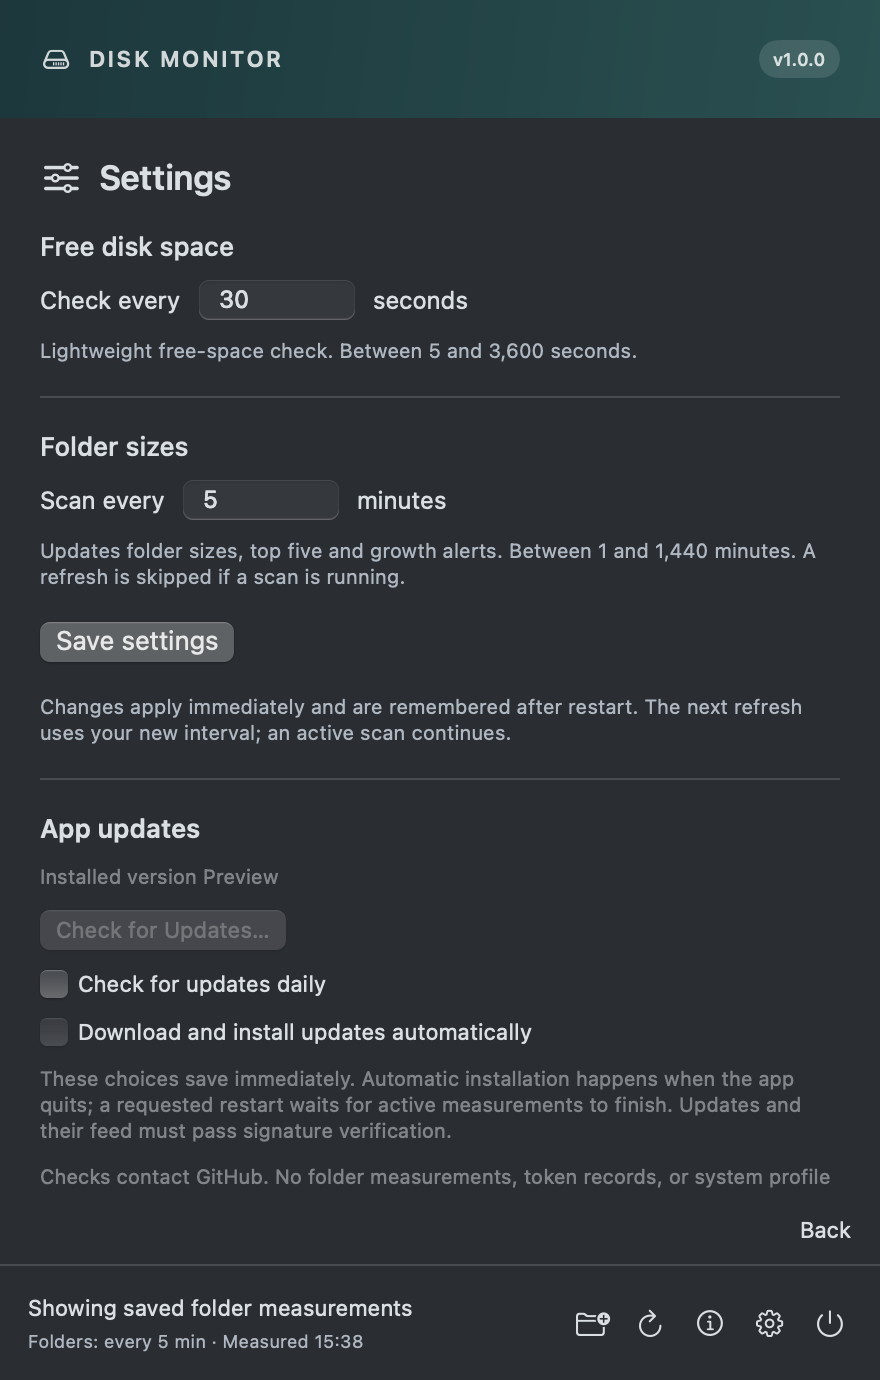
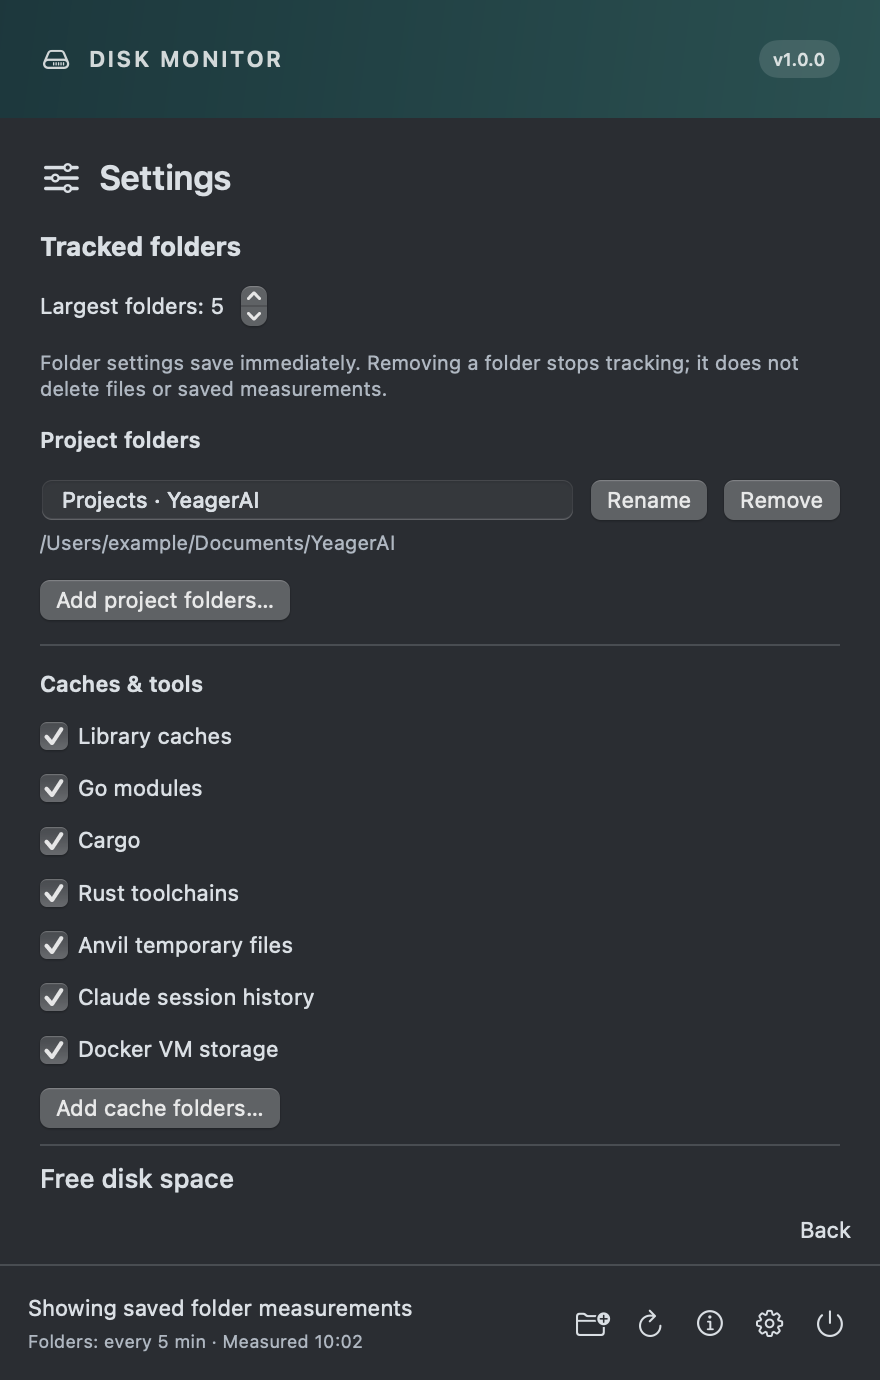
Configure largest-folder count, projects and cache roots
Preserve existing saved folders while supporting multiple project roots and labels, detected cache toggles, custom caches and a configurable ranking size. Cover migration, persistence and cross-root ranking with fixtures.

diff --git a/main.swift b/main.swift
@@ -78,7 +78,7 @@ func sizeText(_ bytes: Int64) -> String {
 }
 struct Reading: Codable { var bytes: Int64; var previous: Int64?; var date: Date; var incomplete: Bool? = nil; var scanError: String? = nil; var protectedOnly: Bool? = nil }
 struct Root: Codable, Identifiable { var path: String; var title: String; var id: String { path } }
-struct Saved: Codable { var readings: [String: Reading]; var extras: [Root]; var projectPath: String? = nil; var excludedPaths: [String]? = nil }
+struct Saved: Codable { var readings: [String: Reading]; var extras: [Root]; var projectPath: String? = nil; var excludedPaths: [String]? = nil; var projects: [Root]? = nil; var customCaches: [Root]? = nil; var largestCount: Int? = nil }
 struct DiskAlert: Identifiable {
     let id: String
     let critical: Bool
@@ -190,6 +190,9 @@ final class Model: ObservableObject {
     @Published var lastMeasuredAt: Date?
     let scanner = Scanner()
     let home: String
+    @Published var projects: [Root]?
+    @Published var customCaches: [Root] = []
+    @Published var largestCount = 5
     @Published var projectPath: String?
     @Published var excludedPaths: Set<String> = []
     var onStatus: (() -> Void)?
@@ -203,12 +206,13 @@ final class Model: ObservableObject {
         return Root(path: path, title: "Projects · " + URL(fileURLWithPath: path).lastPathComponent)
     }
     var projectRoots: [Root] {
-        (projectPath != nil || readings[project.path] != nil) && !excludedPaths.contains(project.path) ? [project] : []
+        if let projects = projects { return projects }
+        return (projectPath != nil || readings[project.path] != nil) && !excludedPaths.contains(project.path) ? [project] : []
     }
     var trackedRoots: [Root] { projectRoots + caches + extras }
     func isTracked(_ path: String) -> Bool { trackedRoots.contains { path == $0.path || path.hasPrefix($0.path + "/") } }
 
-    var caches: [Root] { [
+    var defaultCacheOptions: [Root] { [
         Root(path: home + "/Library/Caches", title: "Library caches"),
         Root(path: home + "/go/pkg/mod", title: "Go modules"),
         Root(path: home + "/.cargo", title: "Cargo"),
@@ -216,7 +220,11 @@ final class Model: ObservableObject {
         Root(path: home + "/.foundry/anvil/tmp", title: "Anvil temporary files"),
         Root(path: home + "/.claude/projects", title: "Claude session history"),
         Root(path: home + "/Library/Containers/com.docker.docker/Data/vms", title: "Docker VM storage")
-    ].filter { !excludedPaths.contains($0.path) && (FileManager.default.fileExists(atPath: $0.path) || readings[$0.path] != nil) && !projectRoots.map(\.path).contains($0.path) }
+    ].filter { FileManager.default.fileExists(atPath: $0.path) || readings[$0.path] != nil }
+    }
+    var caches: [Root] {
+        let custom = Set(customCaches.map(\.path))
+        return defaultCacheOptions.filter { !excludedPaths.contains($0.path) && !projectRoots.map(\.path).contains($0.path) && !custom.contains($0.path) } + customCaches
     }
     let saveURL: URL
     init(home: String = FileManager.default.homeDirectoryForCurrentUser.path, preferences: UserDefaults = .standard, saveURL: URL = FileManager.default.homeDirectoryForCurrentUser.appendingPathComponent("Library/Application Support/DiskMonitor/readings.json")) {
@@ -227,7 +235,7 @@ final class Model: ObservableObject {
         let folder = preferences.object(forKey: "folderRefreshSeconds") as? Int ?? 300
         diskInterval = (5...3600).contains(disk) ? disk : 30
         folderInterval = (60...86400).contains(folder) ? folder : 300
-        if (try? PrivateReadings.prepare(saveURL)) != nil, let data = try? Data(contentsOf: saveURL), let saved = try? JSONDecoder().decode(Saved.self, from: data) { readings = saved.readings; extras = saved.extras; projectPath = saved.projectPath; excludedPaths = Set(saved.excludedPaths ?? []); status = "Showing saved folder measurements" }
+        if (try? PrivateReadings.prepare(saveURL)) != nil, let data = try? Data(contentsOf: saveURL), let saved = try? JSONDecoder().decode(Saved.self, from: data) { readings = saved.readings; extras = saved.extras; projectPath = saved.projectPath; excludedPaths = Set(saved.excludedPaths ?? []); projects = saved.projects; customCaches = saved.customCaches ?? []; largestCount = (1...50).contains(saved.largestCount ?? 5) ? (saved.largestCount ?? 5) : 5; status = "Showing saved folder measurements" }
         lastMeasuredAt = readings.values.map(\.date).max()
         refreshCapacity()
         scheduleTimers()
@@ -337,11 +345,12 @@ final class Model: ObservableObject {
         }
     }
     var largestFolders: [Root] {
-        let worktrees = project.path + "/worktree"
+        let projectPaths = projectRoots.map(\.path)
         let library = home + "/Library/Caches"
         var candidates = Set(readings.keys.filter {
             let parent = URL(fileURLWithPath: $0).deletingLastPathComponent().path
-            return (parent == project.path && $0 != worktrees) || parent == worktrees || parent == library
+            let candidate = $0
+            return projectPaths.contains { (parent == $0 && candidate != $0 + "/worktree") || parent == $0 + "/worktree" } || parent == library
         })
         for root in caches where root.path != library { candidates.insert(root.path) }
         for root in extras { candidates.insert(root.path) }
@@ -353,7 +362,7 @@ final class Model: ObservableObject {
         for path in sorted {
             if selected.contains(where: { path.hasPrefix($0 + "/") || $0.hasPrefix(path + "/") }) { continue }
             selected.append(path)
-            if selected.count == 5 { break }
+            if selected.count == largestCount { break }
         }
         return selected.map { path in
             let title = caches.first(where: { $0.path == path })?.title ?? URL(fileURLWithPath: path).lastPathComponent
@@ -378,7 +387,7 @@ final class Model: ObservableObject {
     }
     func save() {
         do {
-            try PrivateReadings.write(JSONEncoder().encode(Saved(readings: readings, extras: extras, projectPath: projectPath, excludedPaths: Array(excludedPaths).sorted())), to: saveURL)
+            try PrivateReadings.write(JSONEncoder().encode(Saved(readings: readings, extras: extras, projectPath: projectPath, excludedPaths: Array(excludedPaths).sorted(), projects: projects, customCaches: customCaches, largestCount: largestCount)), to: saveURL)
         } catch { status = "Could not save private folder measurements" }
     }
     func scan(_ roots: [Root]) {
@@ -425,6 +434,8 @@ final class Model: ObservableObject {
         }
     }
     func stopTracking(_ path: String) {
+        projects = projectRoots.filter { $0.path != path }
+        customCaches.removeAll { $0.path == path }
         excludedPaths.insert(path)
         extras.removeAll { $0.path == path }
         if project.path == path { projectPath = nil }
@@ -433,9 +444,36 @@ final class Model: ObservableObject {
     func setProjects(_ path: String) {
         if project.path != path { excludedPaths.insert(project.path) }
         projectPath = path
+        projects = [Root(path: path, title: "Projects · " + URL(fileURLWithPath: path).lastPathComponent)]
+        customCaches.removeAll { $0.path == path }
         excludedPaths.remove(path)
         extras.removeAll { $0.path == path }
         save(); onStatus?()
+    }
+    func configureLargestCount(_ count: Int) {
+        guard (1...50).contains(count) else { return }
+        largestCount = count; save()
+    }
+    func addRoot(_ url: URL, asProject: Bool) {
+        let current = projectRoots
+        let root = Root(path: url.path, title: url.lastPathComponent)
+        projects = current.filter { $0.path != url.path }
+        customCaches.removeAll { $0.path == url.path }
+        extras.removeAll { $0.path == url.path }
+        excludedPaths.insert(url.path)
+        if asProject { projects!.append(root) } else { customCaches.append(root) }
+        save(); onStatus?()
+    }
+    func renameProject(_ path: String, title: String) {
+        let name = title.trimmingCharacters(in: .whitespacesAndNewlines)
+        guard !name.isEmpty else { return }
+        projects = projectRoots.map { $0.path == path ? Root(path: path, title: name) : $0 }
+        save()
+    }
+    func chooseRoots(asProject: Bool) {
+        let panel = NSOpenPanel(); panel.canChooseDirectories = true; panel.canChooseFiles = false; panel.allowsMultipleSelection = true
+        panel.prompt = asProject ? "Add project folders" : "Add cache folders"
+        if panel.runModal() == .OK { for url in panel.urls { addRoot(url, asProject: asProject) } }
     }
     func chooseProjects() {
         let panel = NSOpenPanel(); panel.canChooseDirectories = true; panel.canChooseFiles = false
@@ -532,7 +570,7 @@ struct LargestFolders: View {
     var body: some View {
         VStack(alignment: .leading, spacing: 9) {
             HStack {
-                Label("5 LARGEST FOLDERS", systemImage: "chart.bar.xaxis").font(.system(size: 10, weight: .semibold))
+                Label("\(model.largestCount) LARGEST FOLDERS", systemImage: "chart.bar.xaxis").font(.system(size: 10, weight: .semibold))
                 Spacer()
                 Text("From last scans").font(.system(size: 10)).foregroundStyle(Palette.secondary)
             }
@@ -595,6 +633,47 @@ struct AlertPanel: View {
         }
     }
 }
+struct ProjectSettingRow: View {
+    @ObservedObject var model: Model
+    let root: Root
+    @State private var name = ""
+    var body: some View {
+        VStack(alignment: .leading, spacing: 4) {
+            HStack {
+                TextField("Folder label", text: $name).textFieldStyle(.roundedBorder)
+                    .onSubmit { model.renameProject(root.path, title: name) }
+                Button("Rename") { model.renameProject(root.path, title: name) }.disabled(name.trimmingCharacters(in: .whitespacesAndNewlines).isEmpty)
+                Button("Remove") { model.stopTracking(root.path) }
+            }
+            Text(root.path).font(.caption).foregroundStyle(Palette.secondary).textSelection(.enabled)
+        }.onAppear { name = root.title }
+    }
+}
+struct FolderSettings: View {
+    @ObservedObject var model: Model
+    var body: some View {
+        VStack(alignment: .leading, spacing: 12) {
+            Text("Tracked folders").font(.headline)
+            Stepper("Largest folders: \(model.largestCount)", value: Binding(get: {model.largestCount}, set: {model.configureLargestCount($0)}), in: 1...50)
+            Text("Folder settings save immediately. Removing a folder stops tracking; it does not delete files or saved measurements.").font(.caption).foregroundStyle(Palette.secondary)
+            Text("Project folders").fontWeight(.semibold)
+            ForEach(model.projectRoots) { root in ProjectSettingRow(model: model, root: root) }
+            Button("Add project folders…") { model.chooseRoots(asProject: true) }
+            Divider()
+            Text("Caches & tools").fontWeight(.semibold)
+            ForEach(model.defaultCacheOptions.filter { candidate in !model.projectRoots.contains { $0.path == candidate.path } && !model.customCaches.contains { $0.path == candidate.path } }) { root in
+                Toggle(root.title, isOn: Binding(get: {!model.excludedPaths.contains(root.path)}, set: {enabled in
+                    if enabled {model.excludedPaths.remove(root.path);model.extras.removeAll {$0.path == root.path};model.save();model.onStatus?()}
+                    else {model.stopTracking(root.path)}
+                }))
+            }
+            ForEach(model.customCaches) { root in
+                HStack { Text(root.title); Spacer(); Button("Remove") {model.stopTracking(root.path)} }.help(root.path)
+            }
+            Button("Add cache folders…") {model.chooseRoots(asProject: false)}
+        }.font(.system(size: 11))
+    }
+}
 struct RefreshSettings: View {
     @ObservedObject var model: Model
     let close: () -> Void
@@ -609,7 +688,9 @@ struct RefreshSettings: View {
                 Spacer()
             }
             VStack(alignment: .leading, spacing: 8) {
-                Text("Free disk space").font(.system(size: 13, weight: .medium))
+                FolderSettings(model: model)
+            Divider()
+            Text("Free disk space").font(.system(size: 13, weight: .medium))
                 HStack {
                     Text("Check every")
                     TextField("30", text: $diskSeconds).textFieldStyle(.roundedBorder).frame(width: 80).accessibilityLabel("Free space interval in seconds")
@@ -712,7 +793,7 @@ struct Dashboard: View {
                     Divider().padding(.vertical, 3)
                     HStack { Text("FOLDERS").fontWeight(.semibold); Spacer(); Text("Size / change") }.font(.system(size: 10)).foregroundStyle(Palette.secondary)
                     ForEach(model.projectRoots) { root in FolderRow(model: model, root: root) }
-                    Button(model.projectRoots.isEmpty ? "Choose Projects folder…" : "Change Projects folder…") { model.chooseProjects() }
+                    Button("Add project folders…") { model.chooseRoots(asProject: true) }
                         .buttonStyle(.plain).foregroundStyle(Palette.accent).font(.system(size: 11))
                     Text("SHARED CACHES & TOOLS").font(.system(size: 10, weight: .semibold)).foregroundStyle(Palette.secondary).padding(.top, 4)
                     VStack(spacing: 1) { ForEach(model.caches) { root in FolderRow(model: model, root: root) } }
@@ -952,6 +1033,36 @@ if CommandLine.arguments.contains("--self-test") {
     migrated.stopTracking(selected.path)
     precondition(migrated.projectRoots.isEmpty, "Stopping a replacement must not resurrect legacy Projects")
     for fixtureModel in [portable, reopened, migrated] { fixtureModel.timer?.invalidate(); fixtureModel.folderTimer?.invalidate() }
+    let multiURL = root.appendingPathComponent("multi-state/readings.json")
+    let multi = Model(home: portableHome.path, saveURL: multiURL)
+    let first = portableHome.appendingPathComponent("first")
+    let second = portableHome.appendingPathComponent("second")
+    multi.addRoot(first, asProject: true); multi.addRoot(second, asProject: true)
+    multi.addRoot(first, asProject: true)
+    precondition(multi.projectRoots.count == 2)
+    multi.renameProject(first.path, title: "Work repositories")
+    for i in 0..<8 {
+        let parent = i < 4 ? first.path : second.path
+        multi.readings[parent + "/repo-" + String(i)] = Reading(bytes: Int64(i+1)*gib, previous: nil, date: Date())
+    }
+    precondition(multi.largestFolders.count == 5)
+    multi.configureLargestCount(8)
+    precondition(multi.largestFolders.count == 8 && multi.largestFolders.first?.path == second.path + "/repo-7")
+    multi.configureLargestCount(0);precondition(multi.largestCount == 8)
+    multi.configureLargestCount(51);precondition(multi.largestCount == 8)
+    let customCache = portableHome.appendingPathComponent("custom-cache")
+    multi.addRoot(customCache, asProject: false)
+    multi.readings[customCache.path] = Reading(bytes: 20*gib, previous: nil, date: Date())
+    multi.save()
+    let multiReloaded = Model(home: portableHome.path, saveURL: multiURL)
+    precondition(multiReloaded.largestCount == 8 && multiReloaded.projectRoots.count == 2)
+    precondition(multiReloaded.projectRoots.contains { $0.title == "Work repositories" })
+    precondition(multiReloaded.caches.contains { $0.path == customCache.path })
+    precondition(multiReloaded.largestFolders.first?.path == customCache.path)
+    multiReloaded.stopTracking(second.path)
+    precondition(!multiReloaded.largestFolders.contains { $0.path.hasPrefix(second.path + "/") })
+    precondition(multiReloaded.readings[second.path + "/repo-7"] != nil)
+    multi.timer?.invalidate();multi.folderTimer?.invalidate();multiReloaded.timer?.invalidate();multiReloaded.folderTimer?.invalidate()
     let scanner = Scanner(), result = scanner.scan(root.path)
     precondition(result.error == nil && (result.values[root.path] ?? 0) >= 1024 * 1024)
     precondition(result.values[root.appendingPathComponent("folder with spaces").path] != nil)

diff --git a/docs/screenshots/fixture.swift b/docs/screenshots/fixture.swift
@@ -9,7 +9,7 @@ let application = PreviewApplication.shared
 application.setActivationPolicy(.prohibited)
 application.appearance = NSAppearance(named: .darkAqua)
 let preferences = UserDefaults(suiteName: "MonitorReadme." + UUID().uuidString)!
-let model = Model(preferences: preferences)
+let model = Model(home: "/Users/example", preferences: preferences)
 let now = Date()
 model.free = 342 * gib; model.capacity = 926 * gib
 model.status = "Showing saved folder measurements"; model.lastMeasuredAt = now

diff --git a/README.md b/README.md
@@ -2,7 +2,7 @@
 
 **See where your disk space goes, straight from the macOS menu bar.**
 
-Disk Monitor shows free space, your five largest measured folders, and growth between
+Disk Monitor shows free space, your largest measured folders (five by default), and growth between
 scans in a compact native dashboard. Follow projects, worktrees, and shared development
 caches without leaving your current app.
 
@@ -26,7 +26,7 @@ caches without leaving your current app.
 ## Overview
 
 - **Free space at a glance.** A lightweight capacity check runs separately from folder scans.
-- **Find growing folders.** The top five ranks measured projects and caches; expand the tree to investigate.
+- **Find growing folders.** The configurable largest-folder list ranks measured projects and caches; expand the tree to investigate.
 - **See scan progress.** Active and queued folders have distinct indicators, with previous sizes kept visible.
 - **Choose your cadence.** Configure free-space and folder-scan intervals independently.
 - **Know when to look.** Menu bar badges distinguish low space, large growth, and incomplete measurements.
@@ -112,7 +112,7 @@ checks contact GitHub; no measurements or system profile are sent. There is no t
 `~/Library/Application Support/DiskMonitor/`.
 
 Folder sizes can overlap or share APFS storage: **do not add them together or treat
-them as guaranteed reclaimable space**. The top five covers tracked candidates, not
+them as guaranteed reclaimable space**. The largest-folder list covers tracked candidates, not
 the entire disk. Partial results show **≥**; failed scans preserve earlier complete
 readings. Protected folders can remain unreadable. Nix reclaimable space and
 Docker-internal accounting are not implemented.
@@ -155,3 +155,22 @@ not trigger the menu-bar ? badge. Mixed, unknown and other scan failures still w
 free-space and growth thresholds are unchanged. Classification uses all diagnostics
 before display truncation. Legacy partial readings require a fresh scan before
 suppressing their warning. No filesystem permissions are changed.
+
+## Folder settings
+
+Settings → Tracked folders configures the largest-folder count (1–50, default 5),
+multiple project roots with editable labels, detected default-cache toggles and
+custom cache roots. These controls save immediately, separately from refresh
+interval edits. Project labels save with Rename or Return. Remove stops tracking
+without deleting measurements or files. The top list ranks measured children across
+all project roots, worktree children, Library cache children and configured cache/extra
+roots, suppressing overlapping parent/child entries as before.
+
+Optional saved fields projects, customCaches and largestCount preserve old JSON
+compatibility. With projects absent, the old projectPath or legacy saved YeagerAI
+root remains active; an explicitly empty projects array means no project roots.
+Existing readings, extras, exclusions and intervals are preserved. Older app versions
+ignore the new fields and cannot reproduce multiple-root/count settings on rollback.
+Fixture checks cover migration, multiple roots, label/count persistence, boundaries,
+custom caches, duplicate prevention and ranking across roots. Native folder-picker
+and Rename/Remove click behavior still require manual acceptance.

diff --git a/docs/USAGE.md b/docs/USAGE.md
@@ -5,7 +5,7 @@
 ## Using the dashboard
 
 The header shows free space on the filesystem containing your home directory.
-The top five ranks measured projects, worktree repositories, and cache folders.
+The configurable largest-folder list ranks measured projects, worktree repositories, and cache folders.
 Click a ranked folder or folder alert to reveal it in the expandable tree.
 This is a ranking of tracked candidates, not a whole-disk search.
 
@@ -137,3 +137,22 @@ without them; older app versions ignore them (and may show default folders again
 No files are deleted and no preferences or permissions reset. Regression fixtures
 cover an empty/default home, selection, duplicate prevention, missing custom paths,
 restart persistence, legacy migration and removal from alerts/rankings.
+
+## Folder settings
+
+Settings → Tracked folders configures the largest-folder count (1–50, default 5),
+multiple project roots with editable labels, detected default-cache toggles and
+custom cache roots. These controls save immediately, separately from refresh
+interval edits. Project labels save with Rename or Return. Remove stops tracking
+without deleting measurements or files. The top list ranks measured children across
+all project roots, worktree children, Library cache children and configured cache/extra
+roots, suppressing overlapping parent/child entries as before.
+
+Optional saved fields projects, customCaches and largestCount preserve old JSON
+compatibility. With projects absent, the old projectPath or legacy saved YeagerAI
+root remains active; an explicitly empty projects array means no project roots.
+Existing readings, extras, exclusions and intervals are preserved. Older app versions
+ignore the new fields and cannot reproduce multiple-root/count settings on rollback.
+Fixture checks cover migration, multiple roots, label/count persistence, boundaries,
+custom caches, duplicate prevention and ranking across roots. Native folder-picker
+and Rename/Remove click behavior still require manual acceptance.

diff --git a/docs/ACCEPTANCE.md b/docs/ACCEPTANCE.md
@@ -114,3 +114,22 @@ without them; older app versions ignore them (and may show default folders again
 No files are deleted and no preferences or permissions reset. Regression fixtures
 cover an empty/default home, selection, duplicate prevention, missing custom paths,
 restart persistence, legacy migration and removal from alerts/rankings.
+
+## Folder settings
+
+Settings → Tracked folders configures the largest-folder count (1–50, default 5),
+multiple project roots with editable labels, detected default-cache toggles and
+custom cache roots. These controls save immediately, separately from refresh
+interval edits. Project labels save with Rename or Return. Remove stops tracking
+without deleting measurements or files. The top list ranks measured children across
+all project roots, worktree children, Library cache children and configured cache/extra
+roots, suppressing overlapping parent/child entries as before.
+
+Optional saved fields projects, customCaches and largestCount preserve old JSON
+compatibility. With projects absent, the old projectPath or legacy saved YeagerAI
+root remains active; an explicitly empty projects array means no project roots.
+Existing readings, extras, exclusions and intervals are preserved. Older app versions
+ignore the new fields and cannot reproduce multiple-root/count settings on rollback.
+Fixture checks cover migration, multiple roots, label/count persistence, boundaries,
+custom caches, duplicate prevention and ranking across roots. Native folder-picker
+and Rename/Remove click behavior still require manual acceptance.

diff --git a/docs/ARCHITECTURE.md b/docs/ARCHITECTURE.md
@@ -184,3 +184,22 @@ without them; older app versions ignore them (and may show default folders again
 No files are deleted and no preferences or permissions reset. Regression fixtures
 cover an empty/default home, selection, duplicate prevention, missing custom paths,
 restart persistence, legacy migration and removal from alerts/rankings.
+
+## Folder settings
+
+Settings → Tracked folders configures the largest-folder count (1–50, default 5),
+multiple project roots with editable labels, detected default-cache toggles and
+custom cache roots. These controls save immediately, separately from refresh
+interval edits. Project labels save with Rename or Return. Remove stops tracking
+without deleting measurements or files. The top list ranks measured children across
+all project roots, worktree children, Library cache children and configured cache/extra
+roots, suppressing overlapping parent/child entries as before.
+
+Optional saved fields projects, customCaches and largestCount preserve old JSON
+compatibility. With projects absent, the old projectPath or legacy saved YeagerAI
+root remains active; an explicitly empty projects array means no project roots.
+Existing readings, extras, exclusions and intervals are preserved. Older app versions
+ignore the new fields and cannot reproduce multiple-root/count settings on rollback.
+Fixture checks cover migration, multiple roots, label/count persistence, boundaries,
+custom caches, duplicate prevention and ranking across roots. Native folder-picker
+and Rename/Remove click behavior still require manual acceptance.
